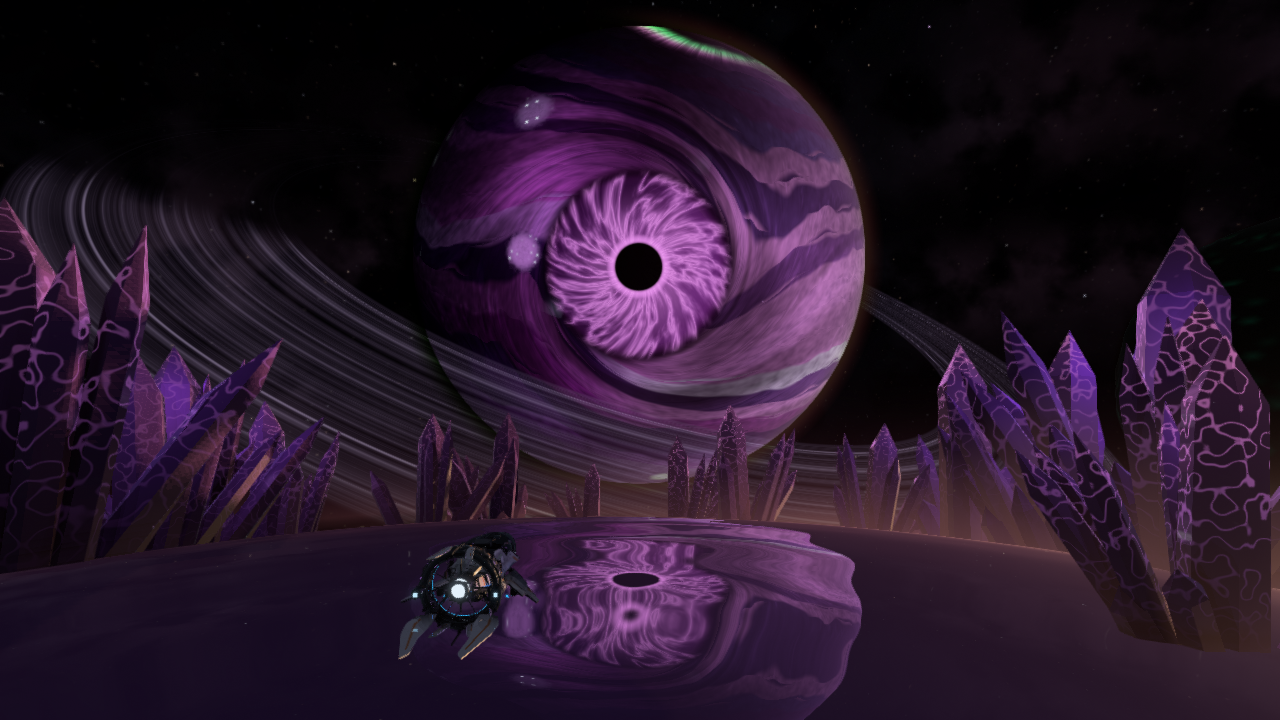
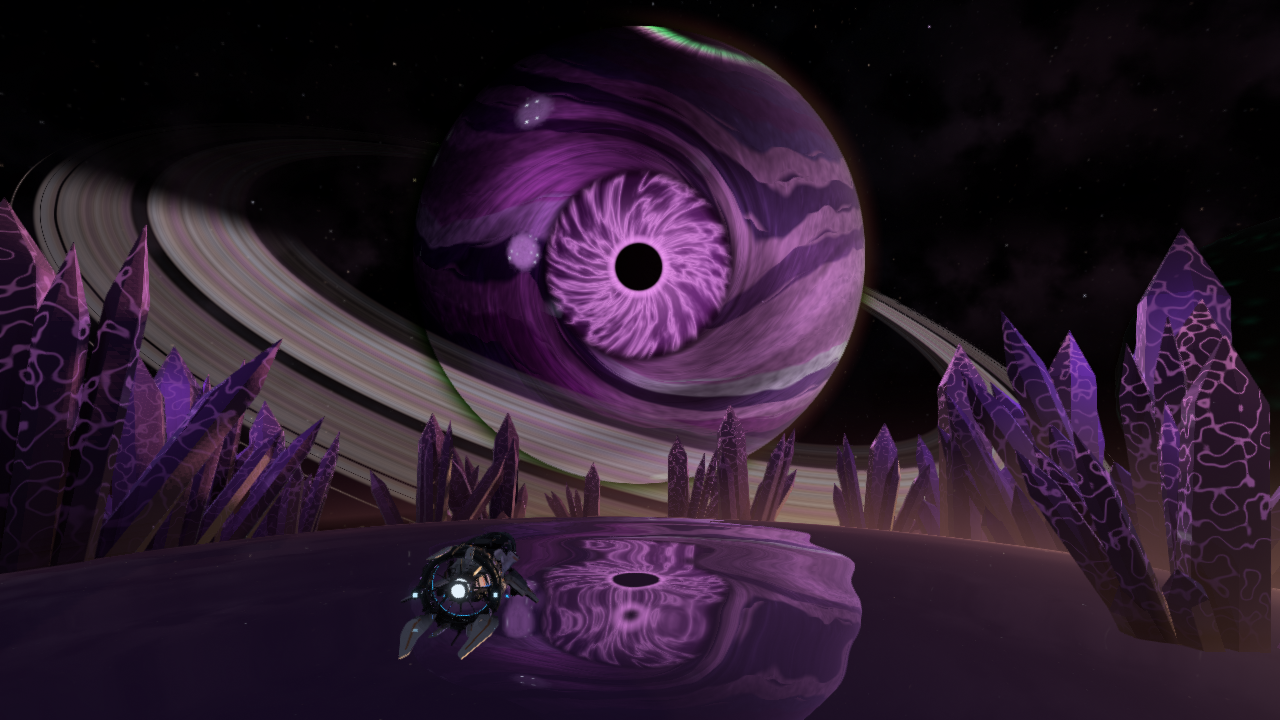
Hacer los anillos de Vigia como los de Saturno, con zonas, divisiones, franjas de colores, lunitas pastoras y rayos radiales, y suavizar los relampagos del remolino

Changed region(s): [[0.0, 0.2139, 0.7188, 0.7333], [0.6562, 0.3972, 0.8125, 0.55], [0.8438, 0.6111, 0.875, 0.6417]]

diff --git a/src/shaders/rings.rs b/src/shaders/rings.rs
@@ -1,6 +1,14 @@
 //! Anillos: un disco analitico, no una malla. Los de Cementerio estan
 //! llenos de los restos de las naves del exodo que nunca escapo; los de
-//! Vigia son polvo fino en anillos delgados que brilla a contraluz.
+//! Vigia son polvo y hielo que brillan a contraluz, con la estructura de los
+//! de Saturno: un anillo interior tenue y oscuro, uno ancho y denso, la
+//! division oscura (como la de Cassini) y el anillo exterior con un hueco
+//! angosto (como el de Encke) donde orbita una lunita que deja olas en sus
+//! orillas; por fuera, un anillo delgado de grumos que se trenza entre dos
+//! lunitas pastoras. Cada zona tiene franjas de colores (lila, rosa, durazno,
+//! blanco hielo, gris azulado) y sobre el anillo denso aparecen y se
+//! desvanecen rayos radiales (los "spokes" de Saturno) que giran con el
+//! planeta y no con el anillo.
 //!
 //! Por cada pixel se intersecta el rayo de la camara con el plano de los
 //! anillos y se compara con la profundidad del visibility buffer: si el
@@ -54,8 +62,24 @@ pub struct RingInfo {
 const DUST: Vec3 = Vec3::new(0.62, 0.55, 0.48);
 const DARK_DUST: Vec3 = Vec3::new(0.30, 0.26, 0.24);
 const STEEL: Vec3 = Vec3::new(0.22, 0.24, 0.27);
-const LILAC: Vec3 = Vec3::new(0.62, 0.5, 0.78);
-const DARK_LILAC: Vec3 = Vec3::new(0.24, 0.17, 0.32);
+/// Franjas de los anillos de Vigia: lila, rosa, durazno, blanco hielo y gris
+/// azulado.
+const ICE_BANDS: [Vec3; 5] = [
+    Vec3::new(0.5, 0.38, 0.66),
+    Vec3::new(0.6, 0.34, 0.5),
+    Vec3::new(0.62, 0.45, 0.42),
+    Vec3::new(0.66, 0.64, 0.76),
+    Vec3::new(0.34, 0.36, 0.52),
+];
+/// Los anillos de Vigia, en fraccion del ancho: donde termina el interior
+/// tenue, la orilla del denso, la division oscura, el hueco del anillo
+/// exterior (con su lunita), el final del exterior y el anillo de grumos.
+const C_END: f32 = 0.18;
+const B_END: f32 = 0.55;
+const DIVISION_END: f32 = 0.605;
+const GAP: f32 = 0.83;
+const A_END: f32 = 0.89;
+const F_RING: f32 = 0.95;
 const RUST: Vec3 = Vec3::new(0.26, 0.13, 0.07);
 /// Tamano de un pedazo de casco, en unidades del mundo.
 const PIECE: f32 = 14.0;
@@ -193,15 +217,9 @@ pub fn density(ring: &RingInfo, r: f32, noise: &Perlin) -> f32 {
             let fine = noise.noise(Vec3::new(s * 160.0, 1.5, 0.5)) * 0.5 + 0.5;
             (edges * division * (0.25 + 0.55 * bands + 0.2 * fine)).min(0.92)
         }
-        // Delgados: tres bandas con divisiones nitidas y muchos anillitos.
-        RingStyle::Dust => {
-            let edges = smoothstep(0.0, 0.02, s) * smoothstep(1.0, 0.97, s);
-            let gaps = (1.0 - 0.97 * smoothstep(0.03, 0.0, (s - 0.3).abs()))
-                * (1.0 - 0.9 * smoothstep(0.015, 0.0, (s - 0.71).abs()));
-            let ringlets = noise.noise(Vec3::new(s * 80.0, 0.5, 2.5)) * 0.5 + 0.5;
-            let fine = noise.noise(Vec3::new(s * 260.0, 1.5, 2.5)) * 0.5 + 0.5;
-            (edges * gaps * (0.015 + 0.3 * ringlets * ringlets * ringlets + 0.06 * fine)).min(0.38)
-        }
+        // Como los de Saturno (sin lo que depende del angulo: eso solo se
+        // dibuja, no da sombra).
+        RingStyle::Dust => dust_density(s, 0.0, noise),
         RingStyle::Buses => crate::chapin::capital::ring_density(s, noise),
         RingStyle::Kites => crate::chapin::cuchumatanes::ring_density(s, noise),
     }
@@ -235,7 +253,13 @@ pub fn composite(color: Vec3, dir: Vec3, depth: f32, ring: &RingInfo, u: &Unifor
     }
     let hit = dir * t;
     let r = (hit - ring.center).length();
-    let alpha = density(ring, r, u.noise);
+    let s = (r - ring.inner) / (ring.outer - ring.inner);
+    if !(0.0..=1.0).contains(&s) {
+        return color;
+    }
+    // Los de Vigia calculan su densidad abajo (con lo que depende del angulo,
+    // que tambien pone cosas donde la densidad por radio es cero).
+    let alpha = if ring.style == RingStyle::Dust { 1.0 } else { density(ring, r, u.noise) };
     if alpha <= 0.0 {
         return color;
     }
@@ -252,7 +276,6 @@ pub fn composite(color: Vec3, dir: Vec3, depth: f32, ring: &RingInfo, u: &Unifor
     } else {
         1.0
     };
-    let s = (r - ring.inner) / (ring.outer - ring.inner);
     // Lo que mide un pixel en el plano, visto de lado crece.
     let footprint = t * u.pixel_angle / denom.abs().max(0.05);
     let local = hit - ring.center;
@@ -269,12 +292,10 @@ pub fn composite(color: Vec3, dir: Vec3, depth: f32, ring: &RingInfo, u: &Unifor
                 1.5,
             )
         }
-        RingStyle::Dust => (
-            DARK_LILAC.lerp(LILAC, smoothstep(0.05, 0.4, alpha)),
-            alpha,
-            Vec3::ZERO,
-            5.0,
-        ),
+        RingStyle::Dust => {
+            let (alpha, albedo) = dust(ring, local, s, footprint, u);
+            (albedo, alpha, Vec3::ZERO, 3.0)
+        }
         RingStyle::Buses => crate::chapin::capital::ring(ring, local, alpha, s, footprint, u),
         RingStyle::Kites => crate::chapin::cuchumatanes::ring(ring, local, alpha, s, footprint, u),
     };
@@ -287,6 +308,94 @@ pub fn composite(color: Vec3, dir: Vec3, depth: f32, ring: &RingInfo, u: &Unifor
         RingStyle::Wrecks | RingStyle::Buses | RingStyle::Kites => u.sun_light,
     };
     color.lerp(albedo * sun * light, alpha) + glow
+}
+
+/// Densidad de los anillos de Vigia en `s` (fraccion del ancho). `wake`
+/// corre la orilla del hueco del anillo exterior (las olas de su lunita).
+fn dust_density(s: f32, wake: f32, noise: &Perlin) -> f32 {
+    let ringlets = noise.noise(Vec3::new(s * 80.0, 0.5, 2.5)) * 0.5 + 0.5;
+    let fine = noise.noise(Vec3::new(s * 260.0, 1.5, 2.5)) * 0.5 + 0.5;
+    // El interior, tenue; el denso, con anillitos; la division, casi vacia;
+    // el exterior, con su hueco y otro mas fino cerca de la orilla.
+    let inner = smoothstep(0.0, 0.02, s) * smoothstep(C_END + 0.02, C_END - 0.01, s) * (0.05 + 0.07 * ringlets);
+    let dense = smoothstep(C_END - 0.01, C_END + 0.02, s) * smoothstep(B_END + 0.005, B_END - 0.01, s)
+        * (0.2 + 0.24 * ringlets + 0.06 * fine);
+    let gap = smoothstep(0.002, 0.0055, (s - GAP - wake).abs());
+    let fine_gap = 1.0 - 0.9 * smoothstep(0.0018, 0.0, (s - 0.872).abs());
+    let outer = smoothstep(DIVISION_END - 0.01, DIVISION_END + 0.008, s) * smoothstep(A_END + 0.005, A_END - 0.008, s)
+        * (0.14 + 0.1 * ringlets + 0.04 * fine)
+        * gap
+        * fine_gap;
+    let division = smoothstep(B_END, B_END + 0.01, s) * smoothstep(DIVISION_END, DIVISION_END - 0.01, s) * 0.025;
+    (inner + dense + outer + division).min(0.8)
+}
+
+/// Lo que se ve de los anillos de Vigia en `local` (relativo al planeta,
+/// en el plano): cuanto tapan y su color. Ademas de la densidad: las olas
+/// que deja la lunita del hueco, la lunita misma, el anillo de grumos que
+/// se trenza y los rayos radiales sobre el anillo denso.
+fn dust(ring: &RingInfo, local: Vec3, s: f32, footprint: f32, u: &Uniforms) -> (f32, Vec3) {
+    use std::f32::consts::{PI, TAU};
+    let n = u.noise;
+    let t = u.time;
+    let (a, b) = (local.dot(ring.axis_a), local.dot(ring.axis_b));
+    let r = a.hypot(b);
+    let theta = b.atan2(a);
+    let width = ring.outer - ring.inner;
+    // Las cosas del anillo dan la vuelta mas rapido mientras mas adentro
+    // (Kepler); las lunitas, a su radio.
+    let orbit = |s: f32| {
+        let r = ring.inner + s * width;
+        900.0 / (r * r.sqrt())
+    };
+    let wrap = |x: f32| (x + PI).rem_euclid(TAU) - PI;
+    // La lunita del hueco: atras de ella las orillas quedan onduladas y las
+    // olas se van calmando.
+    let moon = t * orbit(GAP) + 1.3;
+    let behind = (moon - theta).rem_euclid(TAU);
+    let wake = 0.0016 * (behind * 45.0).sin() * (-behind * 1.4).exp();
+    let mut alpha = dust_density(s, wake, n);
+    // El anillo de grumos: angosto, trenzado entre dos lunitas y cortado en
+    // pedazos que dan la vuelta.
+    let f_turn = t * orbit(F_RING);
+    let braid = 0.0025 * (theta * 7.0 + f_turn * 7.0).sin();
+    let strand = smoothstep(0.004, 0.0, (s - F_RING - braid).abs());
+    if strand > 0.0 {
+        let along = theta + f_turn;
+        let clumps = n.noise(Vec3::new(along.cos() * 9.0, along.sin() * 9.0, 4.4)) * 0.5 + 0.5;
+        alpha = alpha.max(strand * (0.12 + 0.5 * clumps * clumps));
+    }
+    // Las franjas de colores, mas oscuras en el interior y mas claras en el
+    // denso.
+    let shade = n.noise(Vec3::new(s * 23.0, 4.2, 0.7)) * 0.5 + 0.5;
+    let k = shade * (ICE_BANDS.len() - 1) as f32;
+    let i = (k as usize).min(ICE_BANDS.len() - 2);
+    let mut albedo = ICE_BANDS[i].lerp(ICE_BANDS[i + 1], k - i as f32);
+    albedo *= if s < C_END { 0.45 } else if s < B_END { 0.7 } else { 0.6 };
+    // Los rayos radiales: cuñas oscuras sobre el anillo denso, que giran con
+    // el planeta y aparecen y se desvanecen despacio.
+    if (C_END..B_END).contains(&s) {
+        let turn = theta + t * 0.07;
+        let spokes = n.noise(Vec3::new(turn.cos() * 7.0, turn.sin() * 7.0, s * 2.5 + t * 0.02)) * 0.5 + 0.5;
+        let come_and_go = 0.5 + 0.5 * (t * 0.05 + theta.sin()).sin();
+        albedo *= 1.0 - 0.45 * smoothstep(0.6, 0.85, spokes) * come_and_go;
+    }
+    // Las lunitas: un puntito claro y redondo, solo cuando se alcanza a ver.
+    // Las lunitas estan a un pelo de su anillo: casi no hay donde buscarlas.
+    if (s - GAP).abs() > 0.02 && (s - F_RING).abs() > 0.03 {
+        return (alpha, albedo);
+    }
+    for (at, phase, size) in [(GAP, moon, 2.5), (F_RING - 0.012, t * orbit(F_RING - 0.012) + 4.0, 1.6), (F_RING + 0.012, t * orbit(F_RING + 0.012) + 2.2, 1.4)] {
+        let along = wrap(theta - phase) * r;
+        let across = (s - at) * width;
+        let d = along.hypot(across);
+        let rock = smoothstep(size + footprint, size * 0.6, d) * (size / (size + footprint)).min(1.0);
+        if rock > 0.0 {
+            alpha = alpha.max(rock);
+            albedo = albedo.lerp(Vec3::new(0.5, 0.48, 0.52), rock);
+        }
+    }
+    (alpha, albedo)
 }
 
 /// Distancia por el rayo `dir` (unitario) al plano del anillo, si lo cruza

diff --git a/src/shaders/vigia.rs b/src/shaders/vigia.rs
@@ -262,11 +262,14 @@ pub fn shade(f: &Fragment, u: &Uniforms) -> Vec3 {
     let storm = smoothstep(2.8 + 1.5 * u.eye_near, 1.3, r) * smoothstep(0.95, 1.2, r);
     if storm > 0.0 {
         let slot = (t * (2.5 + 4.0 * u.eye_near)).floor();
-        let spot = u.noise.noise(p * 26.0 + Vec3::splat(slot * 13.7));
+        // Manchas grandes y suaves: con ruido fino y un umbral duro salian
+        // esquirlas blancas que parecian pedazos de algo.
+        let spot = u.noise.noise(p * 9.0 + Vec3::splat(slot * 13.7));
         let gate = u.noise.noise(Vec3::new(slot * 0.71, 3.3, 1.1)) * 0.5 + 0.5;
-        let flash = smoothstep(0.5, 0.75, spot) * smoothstep(0.55 - 0.3 * u.eye_near, 0.85, gate) * storm;
-        // Detras de las nubes: se ven difusos y tenidos de violeta.
-        glow += Vec3::new(0.55, 0.45, 1.0) * (flash * (0.25 + 0.45 * u.eye_near) * (0.4 + 0.6 * lum));
+        let flash = smoothstep(0.25, 0.85, spot).powi(2) * smoothstep(0.55 - 0.3 * u.eye_near, 0.85, gate) * storm;
+        // Detras de las nubes: se ven difusos y tenidos de violeta, mas de
+        // noche.
+        glow += Vec3::new(0.55, 0.45, 1.0) * (flash * (0.12 + 0.3 * u.eye_near) * (0.3 + 0.7 * dark) * (0.4 + 0.6 * lum));
     }
 
     let n = f.normal;

diff --git a/README.md b/README.md
@@ -210,7 +210,7 @@ Las vistas fijas se generan con `--captura` (nombres entre paréntesis).
 | **9 tipos de modelos** propios en la superficie (20) | Ojo de carne (Argos), hongo y coral (Jardín), espinas de obsidiana y géiser (Pira), nave náufraga y baliza de celosía (Cementerio), racimo de cristal (Párpado) y rocas, armados con código en `scene/props.rs`, cada uno en tres niveles de detalle. | (10) a (13), (26), (28), (32) |
 | **Distribución procedural** reproducible con ruido (10) | Una grilla por cara del cubo-esfera; cada celda propone un punto y lo acepta con una probabilidad de ruido fBm (grupos y claros) por las reglas del terreno (pendiente, surcos, lava, valles). Misma semilla, mismas ubicaciones. | F6 o T → semilla |
 | **Posición y orientación** sobre la superficie curva que gira (5) | Cada objeto vive en el espacio de su planeta, parado sobre la normal radial y hundido en el suelo; gira con el planeta y sube y baja con la respiración de Jardín. | Cualquier superficie |
-| **Shaders propios** distintos (24) | Estrella (fuego carmesí que hierve, con un ojo fijo en su superficie: un remolino alrededor de una pupila negra que late; borde en llamas que siguen en la corona, nubes de gas carmesí y magenta), Pira (placas de Voronoi y lava de cuerpo negro), Jardín (tejido con luz interna y poros), Vigía (bandas por latitud que corren a su ritmo con bordes turbulentos y ondas de Kelvin-Helmholtz, vórtice de Rodrigues, brazos en espiral, iris de gas turbulento, tormentas eléctricas con rayos adentro, auroras en los polos que laten con la estrella y relámpagos por todo el lado de noche; del mapa del Hubble solo se toma el detalle de las nubes), Párpado (lagos espejo que reflejan a Vigía con su propio shader, cristal), Argos (iris en polares con fibras, collareta y pupila; esclera con venas; carne mojada; párpados que se cierran), Cementerio, anillos (naves y polvo), ojos de carne que miran a la nave, cristales, baliza, Pira hirviendo (corona volumétrica), nebulosa del estertor y Gargantúa. | Todas las vistas |
+| **Shaders propios** distintos (24) | Estrella (fuego carmesí que hierve, con un ojo fijo en su superficie: un remolino alrededor de una pupila negra que late; borde en llamas que siguen en la corona, nubes de gas carmesí y magenta), Pira (placas de Voronoi y lava de cuerpo negro), Jardín (tejido con luz interna y poros), Vigía (bandas por latitud que corren a su ritmo con bordes turbulentos y ondas de Kelvin-Helmholtz, vórtice de Rodrigues, brazos en espiral, iris de gas turbulento, tormentas eléctricas con rayos adentro, auroras en los polos que laten con la estrella y relámpagos por todo el lado de noche; del mapa del Hubble solo se toma el detalle de las nubes), Párpado (lagos espejo que reflejan a Vigía con su propio shader, cristal), Argos (iris en polares con fibras, collareta y pupila; esclera con venas; carne mojada; párpados que se cierran), Cementerio, anillos (naves; y los de Vigía como los de Saturno: zonas, divisiones, franjas de colores, lunitas pastoras con sus olas, un anillo de grumos trenzado y rayos radiales), ojos de carne que miran a la nave, cristales, baliza, Pira hirviendo (corona volumétrica), nebulosa del estertor y Gargantúa. | Todas las vistas |
 | **Shader animado** (8) | La estrella late: su pupila se dilata, cada latido sale de ella como un anillo de luz y su remolino gira; la lava y la luz de Jardín laten con retraso; Jardín respira; los géiseres hacen erupción; el vórtice de Vigía gira, su tormenta cambia de fuerza y de color y su pupila se dilata; el ojo de Argos parpadea, cierra la pupila con la nave cerca y sus venas laten; los cristales laten; el lago de Párpado ondula bajo la nave; los anillos orbitan con luces que parpadean; la nebulosa se expande; el gas del disco fluye. | (02), (04), (06), (10), (18), (25) |
 | **Mapeo de normales** (8) | Las placas del casco de los naufragios (generadas al arrancar), la roca y el tejido orgánico en triplanar, con mipmaps; tangentes por vértice y base TBN por pixel. | (13), (05) |
 | **Deformación de la geometría** con ruido (10) | Las funciones de altura de cada planeta desplazan los vértices del cubo-esfera (cráteres, crestas, mares de lava, zanjas); Jardín además respira en el vertex shader, y el de Argos aplana la carne donde está el ojo y levanta los párpados, siguiendo a la nave. | Todas; `--wire` |

diff --git a/EXPLICACION.md b/EXPLICACION.md
@@ -229,6 +229,18 @@
   la tormenta y corre su color del rosa al violeta. Los relámpagos son
   destellos chicos dentro de las nubes del vórtice. Tiene **anillos
   delgados de polvo** que brillan a contraluz.
+- **Los anillos de Vigía, como los de Saturno**
+  ([shaders/rings.rs](src/shaders/rings.rs) `dust`): por radio, un anillo
+  interior tenue y oscuro, uno ancho y denso con anillitos, la división
+  oscura (como la de Cassini) y el exterior con un hueco angosto y otro más
+  fino; cada zona con franjas de colores (lila, rosa, durazno, blanco hielo
+  y gris azulado). Eso mismo da la sombra de los anillos sobre el planeta.
+  Lo que depende del ángulo solo se dibuja: la lunita del hueco, que gira a
+  su velocidad de Kepler y deja las orillas onduladas detrás (las olas se
+  van calmando), un anillo de grumos por fuera que se trenza entre dos
+  lunitas pastoras, y rayos radiales sobre el anillo denso que giran con el
+  planeta y no con el anillo y aparecen y se desvanecen despacio. La sombra
+  del planeta sobre los anillos ya estaba.
 - **Vigía ya no es una pelota lisa** ([shaders/vigia.rs](src/shaders/vigia.rs)):
   - **Bandas** por latitud, cada una con su color y su corriente (al este o
     al oeste). La latitud se tuerce con un fbm y con ondas de dos armónicos
